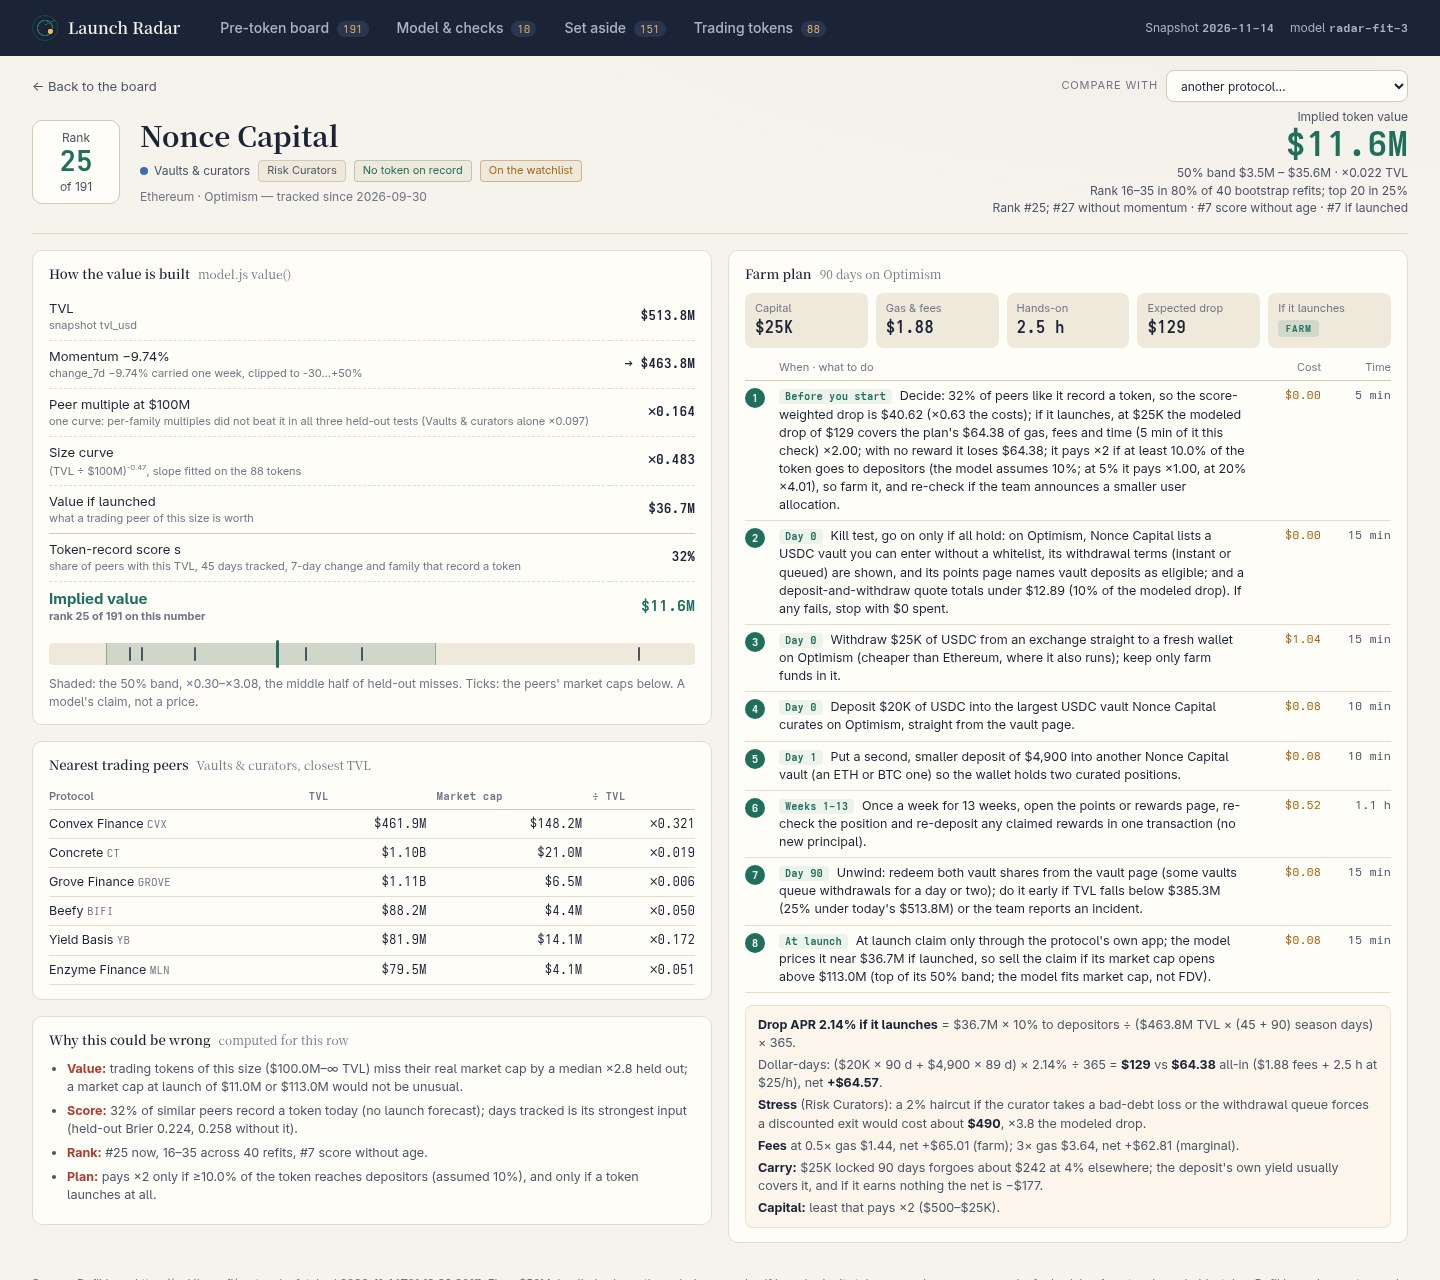
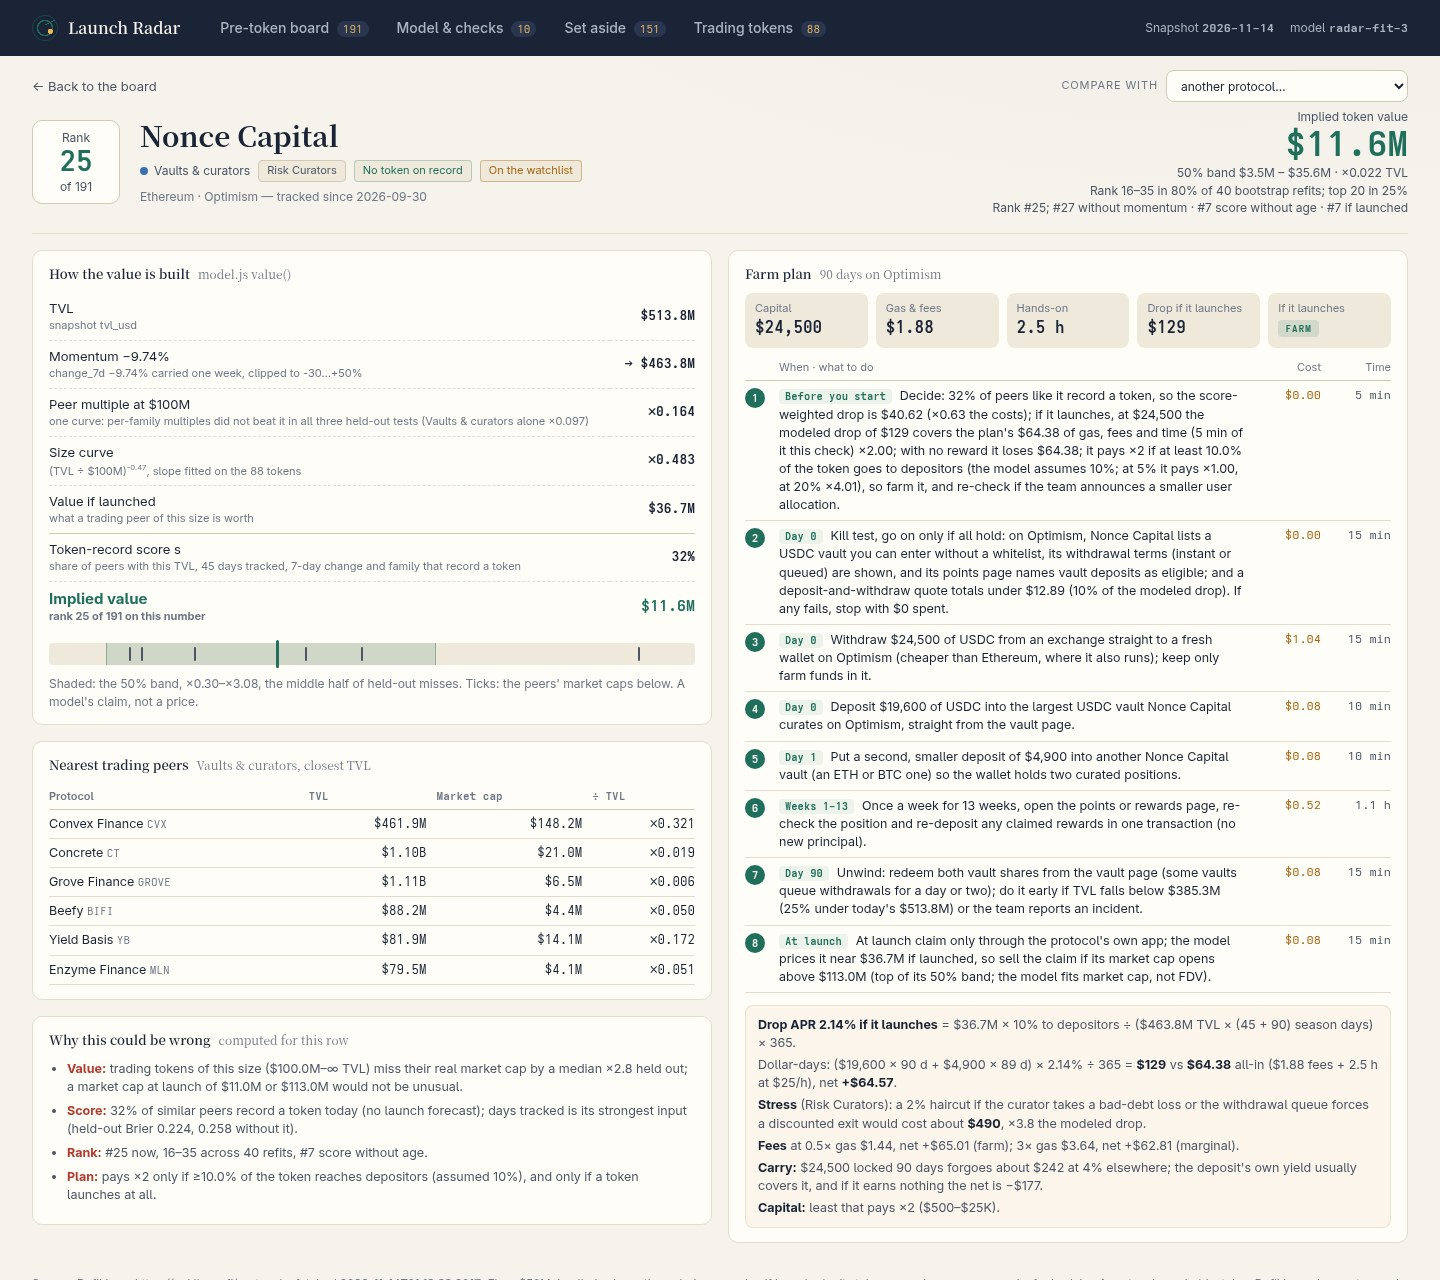
Audit fixes: skip-plan TVL trigger computed from the curve (was a halving that could not flip it); exact dollar amounts in plan steps, tiles and the dollar-days equation ($19,600 not $20K); 'Drop if it launches' and 'Capital if deposited' labels; sorted views say what they are sorted by

diff --git a/dashboard/model.js b/dashboard/model.js
@@ -109,7 +109,6 @@
     .concat(fams.map(function (f) { return family(p) === f[0] ? 1 : 0; }));
   };
   var pts = peers.map(function (p) { var a = ageDays(snap.as_of, p.listed_at); return { p: p, a: a, x: X(p, a == null ? mid : a), y: hasToken(p) ? 1 : 0 }; });
-  // Newton steps from w0 (zeros, or the full fit's weights).
   function logit(T, w0, steps) {
    var n = T[0].x.length, w = [], it, i, j, k, t, g, H;
    for (i = 0; i < n; i++) w.push(w0 ? w0[i] : 0);
@@ -138,17 +137,14 @@
     fam: pts.map(function (q) { var f = family(q.p); fw[f] = fw[f] || logit(pts.filter(function (o) { return family(o.p) !== f; }).map(z), w, 4); return { y: q.y, s: dot(fw[f], z(q).x) }; }) };
   }
   var h0 = held([]), wf = h0.wf, lofo = h0.fam, ss = function (q) { return sig(q.s); };
-  // Cohort check: each age cohort's token share against the fitted mean.
   var edges = [0, 180, 365, 730, 1095, 1e9], cohorts = edges.slice(0, 5).map(function (lo, c) {
    var m = pts.filter(function (q) { return q.a != null && q.a >= lo && q.a < edges[c + 1]; }), n = m.length || 1;
    return { from: lo, n: m.length, actual: m.reduce(function (t, q) { return t + q.y; }, 0) / n, fitted: m.reduce(function (t, q) { return t + F(q.p, q.a); }, 0) / n };
   });
-  // Brier score against the base rate, both held out the same way.
   var S = pts.reduce(function (t, q) { return t + q.y; }, 0), n = pts.length, rate = dated.slice(0, cut).reduce(function (t, q) { return t + q.y; }, 0) / cut;
   var bri = function (T, f) { return T.reduce(function (t, q) { return t + Math.pow(f(q) - q.y, 2); }, 0) / T.length; };
   var brier = { loo: bri(loo, ss), loo_base: bri(pts, function (q) { return (S - q.y) / (n - 1); }),
    wf: bri(wf, ss), wf_base: bri(wf, function () { return rate; }) };
-  // A bootstrap refit on resampled peers.
   var boot = function (rnd) { var wb = logit(pts.map(function () { return pts[Math.floor(rnd() * n)]; }), w, 4); return function (p, a) { return sig(dot(wb, X(p, a))); }; };
   brier.fam = bri(lofo, ss);
   brier.fam_base = bri(pts, function (q) { var o = pts.filter(function (z) { return family(z.p) !== family(q.p); }); return o.reduce(function (t, z) { return t + z.y; }, 0) / o.length; });
@@ -242,7 +238,6 @@
   return { b: b, all: all, fams: fams };
  }
 
- /* Implied value of one protocol, every factor kept for the detail view. */
  function value(p, fit, asOf, ageFallback) {
   var fam = fit.families[family(p)];
   var growth = clamp(p.change_7d == null ? 0 : p.change_7d, M.growth_floor, M.growth_cap);
@@ -256,7 +251,7 @@
 
   // Drop APR: drop_share of the value over the season's dollar-days.
   var apr = fitted * M.drop_share / (tvlNext * (Math.min(ageUsed, M.season_days) + M.farm_days)) * 365;
-  return { family: fam.key, growth: growth, growth_imputed: p.change_7d == null,tvl_next: Math.round(tvlNext), fam_multiple: fam.multiple, size_mult: sizeMult,
+  return { slope: fit.slope, family: fam.key, growth: growth, growth_imputed: p.change_7d == null,tvl_next: Math.round(tvlNext), fam_multiple: fam.multiple, size_mult: sizeMult,
    fitted: Math.round(fitted), age: age, age_used: ageUsed, time_factor: timeF, f0: f0, implied: implied,
    low: Math.round(implied * fit.band_low), high: Math.round(implied * fit.band_high), cap_high: Math.round(fitted * fit.band_high), multiple: implied / p.tvl_usd, apr: apr };
  }
@@ -285,13 +280,13 @@
   if (on && p.chains.indexOf(on) >= 0) chain = on;
   var kind = p.category === 'Prediction Market' ? 'predict' : v.family;
   var asset = /^(Bitcoin|Lightning)/.test(chain) ? 'BTC' : 'USDC';
-  var tx0 = gas(chain), weeks = Math.round(M.farm_days / 7);
+  var amt = function (x) { return '$' + x.toLocaleString('en-US'); }, tx0 = gas(chain), weeks = Math.round(M.farm_days / 7);
   function steps(stake, gm) {
    var tx = tx0 * (gm || 1), side = Math.round(stake / 4), act = ACT[kind];
-   var fill = function (t) { return t.replace(/USDC/g, asset).replace(/\{S\}/g, usd(stake)).replace(/\{s\}/g, usd(side)).replace(/\{N\}/g, p.name).replace(/\{C\}/g, chain); };
+   var fill = function (t) { return t.replace(/USDC/g, asset).replace(/\{S\}/g, amt(stake)).replace(/\{s\}/g, amt(side)).replace(/\{N\}/g, p.name).replace(/\{C\}/g, chain); };
    return [
     { act: 'Kill test, go on only if all hold: ' + fill(act[3]) + '; and a deposit-and-withdraw quote totals under ' + usd(0.1 * earn(stake)) + ' (10% of the modeled drop). If any fails, stop with $0 spent', usd: 0, min: 15, when: 'Day 0' },
-    { act: 'Withdraw ' + usd(stake + side) + ' of ' + asset + ' from an exchange straight to a fresh wallet on ' + chain + (gas(chain) < gas(main[0]) ? ' (cheaper than ' + main[0] + ', where it also runs)' : '') + '; keep only farm funds in it',
+    { act: 'Withdraw ' + amt(stake + side) + ' of ' + asset + ' from an exchange straight to a fresh wallet on ' + chain + (gas(chain) < gas(main[0]) ? ' (cheaper than ' + main[0] + ', where it also runs)' : '') + '; keep only farm funds in it',
      usd: 1 + tx, min: 15, when: 'Day 0' },
     { act: fill(act[0]), usd: 2 * tx, min: v.family === 'rwa' ? 30 : 10, when: v.family === 'rwa' ? 'Days 0-2' : 'Day 0' },
     { act: fill(act[1]), usd: WEEKLY[kind] ? weeks * (side * WEEKLY[kind][0] + WEEKLY[kind][1] * tx) : 2 * tx, min: kind in WEEKLY ? weeks * 10 : 10, when: kind in WEEKLY ? 'Weeks 1-' + weeks : 'Day 1' },
@@ -305,7 +300,6 @@
   function tranches(stake) { return kind === 'vault' ? [[stake, 0], [Math.round(stake / 4), 1]] : [[stake, kind === 'rwa' ? 2 : 0]]; }
   function eligible(stake) { return tranches(stake).reduce(function (a, t) { return a + t[0]; }, 0); }
   function earn(stake) { return tranches(stake).reduce(function (a, t) { return a + t[0] * (M.farm_days - t[1]); }, 0) * v.apr / 365; }
-  // Auto: the least deposit ($500 steps, to $25K) that pays target_cover.
   var stake = dep ? Math.round(dep / 1.25) : 20000;
   for (var k = 400; !dep && k <= 20000; k += 400) {
    if (earn(k) >= M.target_cover * total(steps(k)).all) { stake = k; break; }
@@ -319,18 +313,16 @@
   for (var c = 25000; !payCap && c <= 1000000; c = Math.round(c * 1.25)) {
    var kk = Math.round(c / 1.25); if (earn(kk) >= M.target_cover * total(steps(kk)).all) payCap = Math.ceil(c / 1000) * 1000;
   }
-  st.unshift({ when: 'Before you start', usd: 0, min: 5, act: 'Decide: ' + Math.round(v.time_factor * 100) + '% of peers like it record a token, so the score-weighted drop is ' + usd(drop * v.time_factor) + ' (×' + (drop * v.time_factor / t.all).toFixed(2) + ' the costs); if it launches, at ' + usd(capital) + ' the modeled drop of ' + usd(drop) + ' covers the plan\'s ' + usd(t.all) +
+  st.unshift({ when: 'Before you start', usd: 0, min: 5, act: 'Decide: ' + Math.round(v.time_factor * 100) + '% of peers like it record a token, so the score-weighted drop is ' + usd(drop * v.time_factor) + ' (×' + (drop * v.time_factor / t.all).toFixed(2) + ' the costs); if it launches, at ' + amt(capital) + ' the modeled drop of ' + usd(drop) + ' covers the plan\'s ' + usd(t.all) +
    ' of gas, fees and time (5 min of it this check) ×' + (drop / t.all).toFixed(2) + '; with no reward it loses ' + usd(t.all) + (verdict === 'farm' ? '' : '; before your time it nets ' + (drop >= t.cost ? '+' : '−') + usd(Math.abs(drop - t.cost)) + ', and ' + (payCap ? 'it would pay ×' + M.target_cover + ' at about ' + usd(payCap) + ' of capital' : 'no deposit up to $1M pays ×' + M.target_cover + ' because its fees grow with the deposit')) + '; it pays ×' + M.target_cover + ' if at least ' + (needShare * 100).toFixed(1) +
    '% of the token goes to depositors (the model assumes ' + M.drop_share * 100 + '%; at 5% it pays ×' + (drop / t.all / 2).toFixed(2) + ', at 20% ×' + (drop / t.all * 2).toFixed(2) + '), so ' + (verdict === 'farm' ? 'farm it, and re-check if the team announces a smaller user allocation' : verdict === 'skip' ? 'skip it unless the team announces a larger user allocation' : 'farm it only with funds already on ' + chain) });
-  // Below ×1: a $0 research plan.
   if (verdict === 'skip') {
    st = [st[0],
     { when: 'Day 0', usd: 0, min: 15, act: 'Research only, no deposit: check whether ' + ACT[kind][3].replace(/\{N\}/g, p.name).replace(/\{C\}/g, chain) },
     { when: 'Day 0', usd: 0, min: 15, act: 'Read ' + p.name + '\'s docs and announcements for a stated user or depositor allocation; note the share, if any' },
-    { when: 'Day 0', usd: 0, min: 5, act: 'Write down the trigger that flips this plan: an announced allocation of at least ' + (needShare * 100).toFixed(0) + '% to depositors, ' + (payCap ? 'capital of about ' + usd(payCap) + ' to commit, ' : '') + 'or TVL falling below ' + usd(p.tvl_usd * 0.5) + ' with no change in odds (a smaller pool to share)' },
+    { when: 'Day 0', usd: 0, min: 5, act: 'Write down the trigger that flips this plan: an announced allocation of at least ' + (needShare * 100).toFixed(0) + '% to depositors, ' + (payCap ? 'capital of about ' + usd(payCap) + ' to commit, ' : '') + 'or TVL below ' + usd(p.tvl_usd * Math.pow(M.target_cover * t.all / drop, 1 / v.slope)) + ' (a deposit\'s drop grows as TVL^' + v.slope.toFixed(2) + ', other figures fixed)' },
     { when: 'Day 30', usd: 0, min: 10, act: 'Look again on a new snapshot; if the plan now pays ×' + M.target_cover + ', follow the full plan (' + usd(capital) + ' capital, about ' + usd(t.cost) + ' in fees, ' + mins(Math.round(t.min)) + ' hands-on)' }];
   }
-  // Capital carry at carry_rate: shown, not charged.
   var carry = capital * M.carry_rate * M.farm_days / 365, stress = ACT[kind][4];
   return { stress: stress[0], stress_usd: capital * stress[1], carry: carry, hour: hr, chain: chain, gas: tx0, fees: [0.5, 3].map(function (m) { var a = total(steps(stake, m)); return [m, a.cost, drop - a.all, drop >= M.target_cover * a.all ? 'farm' : drop >= a.all ? 'marginal' : 'skip']; }), stake: capital, eligible: eligible(stake), tranches: tranches(stake), asset: asset, steps: st, cost: t.cost, minutes: t.min, time_usd: t.min / 60 * hr, all_in: t.all,
    days: M.farm_days, drop: drop, net: drop - t.all, need_share: needShare, pay_cap: payCap, verdict: verdict };
@@ -375,7 +367,6 @@
    })
     .sort(function (a, b) { return b.s - a.s || bySlug(a.r.p, b.r.p); }).forEach(function (o, i) { o.r.draws.push(i + 1); if (i < 20) o.r.boot += 1 / 40; });
   }
-  // 80% rank range: 5th lowest to 5th highest rank.
   rows.forEach(function (r) { var d = r.draws.sort(function (a, b) { return a - b; }); r.rlo = d[4]; r.rhi = d[35]; delete r.draws; });
   // Imputed ages: rank re-taken at the 25th and 75th percentile of observed ages.
   var q = function (t) { return ages[Math.floor((ages.length - 1) * t)]; };

diff --git a/dashboard/app.js b/dashboard/app.js
@@ -141,7 +141,7 @@
   [bRows.every((b) => b.farm_steps.length >= 3 && b.farm_steps.length <= 12 && b.farm_steps.every((t) => / Cost: .+ Time: /.test(t))), `${bRows.length}/${bRows.length} plans, every step costed and timed`],
   [B.digest === dig && B.rows === rows.length, `screen = board.json at Auto deposit, digest ${dig}`],
   [O.auc_loo > 0.5 && O.auc_wf > 0.5 && O.auc_fam > 0.5 && O.brier.loo < O.brier.loo_base && O.brier.wf < O.brier.wf_base && O.brier.fam < O.brier.fam_base, `score beats base rate held out 3 ways: AUC ${O.auc_loo.toFixed(2)}/${O.auc_wf.toFixed(2)}/${O.auc_fam.toFixed(2)}`],
-  [rows.slice(0, 10).every((r) => r.boot >= 0.8), `ranks 1–${rows.findIndex((r) => r.boot < 1)} top 20 in all 40 refits (fails if a top 10 drops in >20%)`],
+  [rows.slice(0, 10).every((r) => r.boot >= 0.8), `ranks 1–${rows.findIndex((r) => r.boot < 1)} top 20 in all 40 refits`],
   [O.gap < 0.2, `score within ${Math.round(O.gap * 100)} pts of every age cohort`],
   [spotT.ok && sizeT.ok, `value miss ×${flatT.loo.toFixed(2)} flat → ×${sizeT.loo.toFixed(2)} fitted, held out 3 ways`]
  ];
@@ -204,7 +204,7 @@
   </section>
   <section class="hero slim">
    <div class="lead">
-    <h1>${rows.length} pre-token protocols, ranked by token value × token-record score</h1>
+    <h1>${rows.length} pre-token protocols, ranked by token value × token-record score${st.sort === 'rank' ? '' : `<small> · shown by ${{ g: '7-day change', age: 'days tracked', odds: 'score', apr: 'drop APR', plan: 'farm plan' }[st.sort] || st.sort} ${st.dir === 'asc' ? '▲' : '▼'}</small>`}</h1>
     ${active ? `<p class="note">${CHECKS.filter((c) => c[0]).length}/${CHECKS.length} self-checks pass; the value model and its held-out tests are on the <a href="${link(CLEAR)}">unfiltered board</a>. With filters on, the board leads with the shortlist.</p>${ctl}` : `<p class="eq">value = T × ${mult(fit.base)} × (T ÷ $100M)<sup>${fit.slope.toFixed(2)}</sup> × s</p>
     <p class="checkline ${CHECKS.every((c) => c[0]) ? 'ok' : 'bad'}"><b>${CHECKS.filter((c) => c[0]).length}/${CHECKS.length} self-checks pass</b>, run on load: ${[5, 1, 6, 0].map((i) => CHECKS[i][1]).join(' · ')}${CHECKS.filter((c) => !c[0]).map((c) => ' · ✗ ' + c[1]).join('')} · <a href="${link({ view: 'model' })}">all checks →</a></p>${ctl}`}
    </div>
@@ -266,17 +266,17 @@
    </div>
    <section class="card planc"><h2>Farm plan <span>${pl.days} days on ${esc(pl.chain)}</span></h2>
     <div class="pkpis">
-     <div><small>Capital</small><b>${usd(pl.stake)}</b></div>
+     <div><small>Capital${pl.verdict === 'skip' ? ' if deposited' : ''}</small><b>$${pl.stake.toLocaleString('en-US')}</b></div>
      <div><small>Gas &amp; fees</small><b>${usd(pl.cost)}</b></div>
      <div><small>Hands-on</small><b>${R.mins(pl.minutes)}</b></div>
-     <div><small>Expected drop</small><b>${usd(pl.drop)}</b></div>
+     <div><small>Drop if it launches</small><b>${usd(pl.drop)}</b></div>
      <div><small>If it launches</small>${verdictTag(pl.verdict)}</div>
     </div>
     <div class="steph"><span></span><span>When · what to do</span><span>Cost</span><span>Time</span></div>
     <ol class="steps">${pl.steps.map((s) => `<li><p><em>${esc(s.when)}</em>${esc(s.act)}.</p><span class="cost">${usd(s.usd)}</span><span class="time">${R.mins(s.min)}</span></li>`).join('')}</ol>
     <div class="math">
      <p><b>Drop APR ${(v.apr * 100).toFixed(2)}% if it launches</b> = ${usd(v.fitted)} × ${M.drop_share * 100}% to depositors ÷ (${usd(v.tvl_next)} TVL × (${Math.min(v.age_used, M.season_days)} + ${M.farm_days}) season days) × 365.</p>
-     <p>Dollar-days: (${pl.tranches.map((t) => `${usd(t[0])} × ${pl.days - t[1]} d`).join(' + ')}) × ${(v.apr * 100).toFixed(2)}% ÷ 365 = <b>${usd(pl.drop)}</b> vs <b>${usd(pl.all_in)}</b> all-in (${usd(pl.cost)} fees + ${R.mins(pl.minutes)} at $${pl.hour}/h), net <b class="${pl.net >= 0 ? 'up' : 'down'}">${pl.net >= 0 ? '+' : '−'}${usd(Math.abs(pl.net))}</b>.</p><p><b>Stress</b> (${esc(p.category || FAM[v.family])}): ${esc(pl.stress)} would cost about <b>${usd(pl.stress_usd)}</b>, ×${(pl.stress_usd / Math.max(pl.drop, 1e-9)).toFixed(1)} the modeled drop.</p><p><b>Fees</b> at ${pl.fees.map((f) => `${f[0]}× gas ${usd(f[1])}, net ${f[2] < 0 ? '−' : '+'}${usd(Math.abs(f[2]))} (${f[3]})`).join('; ')}.</p><p><b>Carry:</b> ${usd(pl.stake)} locked ${pl.days} days forgoes about ${usd(pl.carry)} at ${M.carry_rate * 100}% elsewhere; the deposit's own yield usually covers it, and if it earns nothing the net is ${pl.net - pl.carry >= 0 ? '+' : '−'}${usd(Math.abs(pl.net - pl.carry))}.</p><p><b>Capital:</b> ${st.dep ? 'your deposit' : pl.verdict === 'farm' ? `least that pays ×${M.target_cover} ($500–$25K)` : `capped at $25K; no deposit up to it pays ×${M.target_cover}`}.</p>
+     <p>Dollar-days: (${pl.tranches.map((t) => `$${t[0].toLocaleString('en-US')} × ${pl.days - t[1]} d`).join(' + ')}) × ${(v.apr * 100).toFixed(2)}% ÷ 365 = <b>${usd(pl.drop)}</b> vs <b>${usd(pl.all_in)}</b> all-in (${usd(pl.cost)} fees + ${R.mins(pl.minutes)} at $${pl.hour}/h), net <b class="${pl.net >= 0 ? 'up' : 'down'}">${pl.net >= 0 ? '+' : '−'}${usd(Math.abs(pl.net))}</b>.</p><p><b>Stress</b> (${esc(p.category || FAM[v.family])}): ${esc(pl.stress)} would cost about <b>${usd(pl.stress_usd)}</b>, ×${(pl.stress_usd / Math.max(pl.drop, 1e-9)).toFixed(1)} the modeled drop.</p><p><b>Fees</b> at ${pl.fees.map((f) => `${f[0]}× gas ${usd(f[1])}, net ${f[2] < 0 ? '−' : '+'}${usd(Math.abs(f[2]))} (${f[3]})`).join('; ')}.</p><p><b>Carry:</b> $${pl.stake.toLocaleString('en-US')} locked ${pl.days} days forgoes about ${usd(pl.carry)} at ${M.carry_rate * 100}% elsewhere; the deposit's own yield usually covers it, and if it earns nothing the net is ${pl.net - pl.carry >= 0 ? '+' : '−'}${usd(Math.abs(pl.net - pl.carry))}.</p><p><b>Capital:</b> ${st.dep ? 'your deposit' : pl.verdict === 'farm' ? `least that pays ×${M.target_cover} ($500–$25K)` : `capped at $25K; no deposit up to it pays ×${M.target_cover}`}.</p>
     </div>
    </section>
   </div>`;
